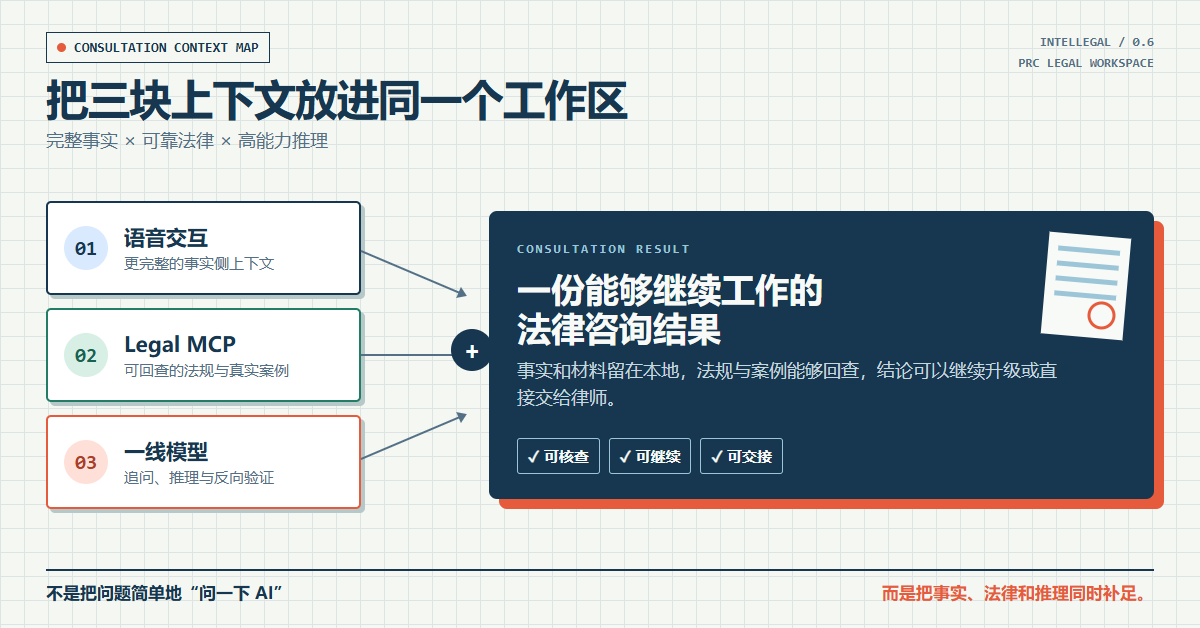
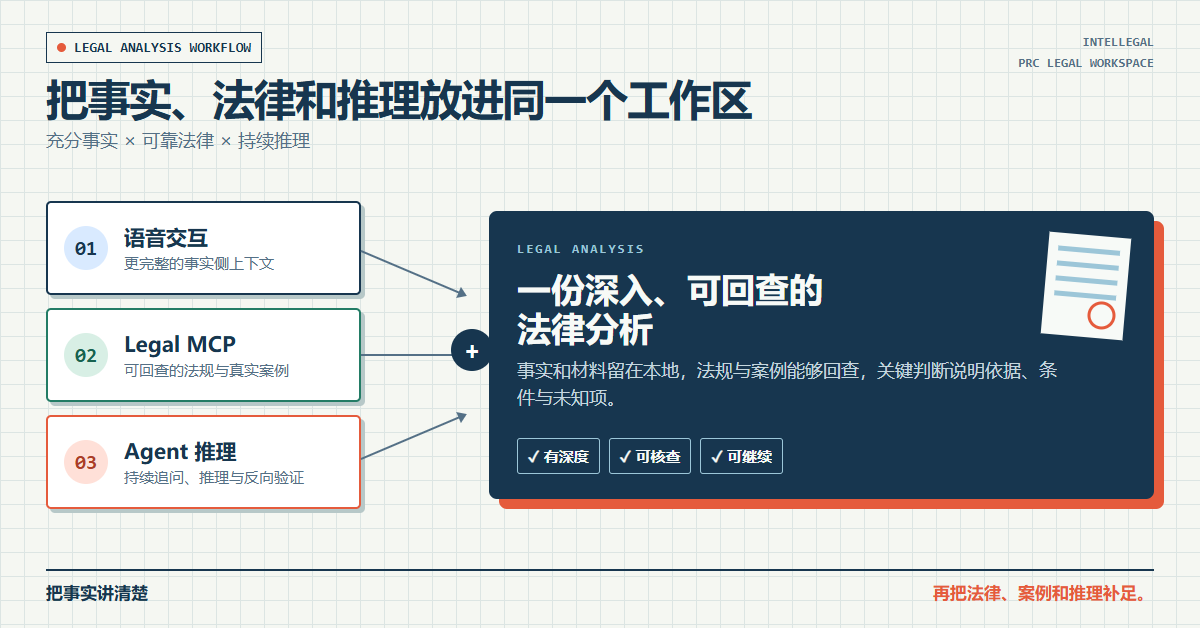
Release 1.0.1
Clarify the product’s independent legal-analysis positioning, update the README infographic, and align the consultation workflow, Skill metadata, release information, and risk notice.

diff --git a/AGENTS.md b/AGENTS.md
@@ -3,7 +3,7 @@
 ## 用户入口
 
 - 用户无需学习工作包、Skill、MCP 或目录。新任务中的第一句无论是“我有法律问题”、寒暄、事实片段、问题、上传提示还是“继续”，都使用 `$voice-legal-consultation-cn` 接住；已出现的内容不得要求重说。
-- 首轮只承接问题并给一个自然选择：直接讲、先放材料，或让系统一步一步带着开始。在前两个回复内用一句话说明：“我会先一次问一个问题，把事情理清并给你基础判断；需要时再核对现行法律和真实案例；仍不放心时可以整理给真人律师复核，任何一步都可以停。”不要展开内部阶段、目录或服务状态。
+- 首轮只承接问题并给一个自然选择：直接讲、先放材料，或让系统一步一步带着开始。在前两个回复内用一句话说明：“我会先一次问一个问题，把事情理清并给你基础判断；需要时再核对现行法律和真实案例；事项重大或仍有疑问时，也可以选择真人律师复核，任何一步都可以停。”不要展开内部阶段、目录或服务状态。
 - Codex 必须由用户先创建任务并说第一句话；不得承诺零输入自动开场。
 
 ## 项目准备与交接
@@ -62,7 +62,7 @@
 - 访谈记录：`003_内部工作区/010_材料处理/002_访谈记录/NNN_YYYYMMDD_HHMM_访谈记录.md`
 - 用户结果：`004_给你的结果/001_咨询结果.md`
 - 可选行动清单：`004_给你的结果/002_行动清单.md`
-- 可选律师交接：`004_给你的结果/003_律师复核委托说明.md`
+- 可选真人复核材料：`004_给你的结果/003_律师复核委托说明.md`
 - 案例全文与索引：`004_给你的结果/004_案例全文/`（进入案例核查后创建）
 
 若文件不存在：主底稿、能力检查、核查范围、访谈记录、咨询结果、行动清单和律师说明从主 Skill 的 `assets/` 创建；详细案例检索记录从 `$prc-case-research/assets/咨询案例检索记录模板.md` 创建。案例核查时创建 `004_给你的结果/004_案例全文/000_案例全文索引.md`，每份已取得的裁判全文单独保存为 Markdown，并从结果和底稿链接。重要事实、材料、风险、能力或阶段变化后更新底稿；不要等到会话结束。

diff --git a/.agents/skills/voice-legal-consultation-cn/SKILL.md b/.agents/skills/voice-legal-consultation-cn/SKILL.md
@@ -59,7 +59,7 @@ Do not call YuanDian, ask for a Key, run setup, or announce missing MCP during t
 1. Acknowledge the user’s actual first words. If facts or materials already appear, preserve them and do not restart.
 2. Before inviting or asking for additional sensitive disclosure, give the short spoken notice from `references/workflow.md`, point to the full notice, and obtain continuation. If the user already disclosed sensitive facts, acknowledge them first and give the notice before asking for more. Do not read the whole notice.
 3. In that same short reply, offer only the next natural actions: “你可以直接讲，也可以先把材料放进来；如果不知道从哪里开始，我一次问你一个问题。”
-4. Within the first two replies, orient once in one sentence: “我会先一次问一个问题，把事情理清并给你基础判断；需要时再核对现行法律和真实案例；仍不放心时可以整理给真人律师复核，任何一步都可以停。” Do not expand it into phases, configuration, directories, or status labels.
+4. Within the first two replies, orient once in one sentence: “我会先一次问一个问题，把事情理清并给你基础判断；需要时再核对现行法律和真实案例；事项重大或仍有疑问时，也可以选择真人律师复核，任何一步都可以停。” Do not expand it into phases, configuration, directories, or status labels.
 5. Invite an uninterrupted account with minimal neutral prompts. Do not open with jurisdiction, limitation, party identity, or a checklist.
 6. Summarize at most three points without legal conclusions. Tell the user they may correct any point, then in the same reply ask one concrete, highest-value factual question. A recap is a bridge to the next interview question, not a handoff of a complex issue list to the user.
 

diff --git a/.agents/skills/voice-legal-consultation-cn/references/workflow.md b/.agents/skills/voice-legal-consultation-cn/references/workflow.md
@@ -22,7 +22,7 @@ Never enumerate internal phases to the user. The whole visible model is:
 找真人律师复核
 ```
 
-In the first two replies, preview this path once in one natural sentence, without phase names, configuration, or internal state: “我会先一次问一个问题，把事情理清并给你基础判断；需要时再核对现行法律和真实案例；仍不放心时可以整理给真人律师复核，任何一步都可以停。” At each branch, provide value before asking for the next commitment. A user who is satisfied may stop without being told the service is incomplete.
+In the first two replies, preview this path once in one natural sentence, without phase names, configuration, or internal state: “我会先一次问一个问题，把事情理清并给你基础判断；需要时再核对现行法律和真实案例；事项重大或仍有疑问时，也可以选择真人律师复核，任何一步都可以停。” At each branch, provide value before asking for the next commitment. A user who is satisfied may stop without being told the service is incomplete.
 
 ## Compact internal phases
 

diff --git a/001_使用说明与配置/001_使用须知与风险声明.md b/001_使用说明与配置/001_使用须知与风险声明.md
@@ -1,8 +1,8 @@
 # 使用须知与风险声明
 
-> 版本：1.0.0
+> 版本：1.0.1
 > 日期：2026-08-24
-> 提供方与律师复核联系信息：仅以 `001_使用说明与配置/003_服务提供方信息.md` 明确公开的内容为准；未公开的信息不得推断，缺失或无可用联系方式表示当前没有已配置渠道
+> 服务提供方信息：仅以 `001_使用说明与配置/003_服务提供方信息.md` 明确公开的内容为准；未公开的信息不得推断
 > 本说明适用于当前正式发布版本；正式委托或律师复核以双方后续确认或协议为准
 
 ## 一、您正在使用什么
